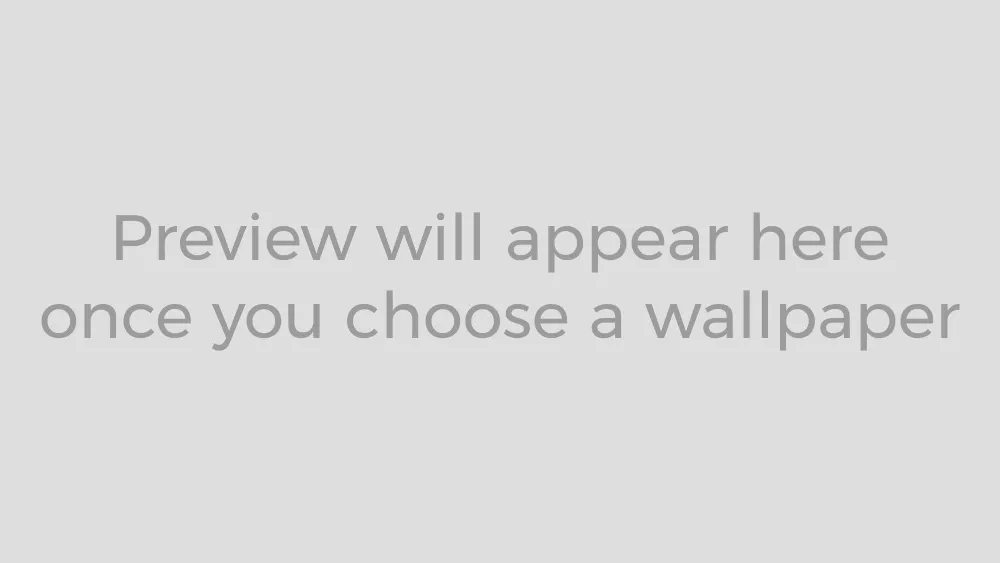
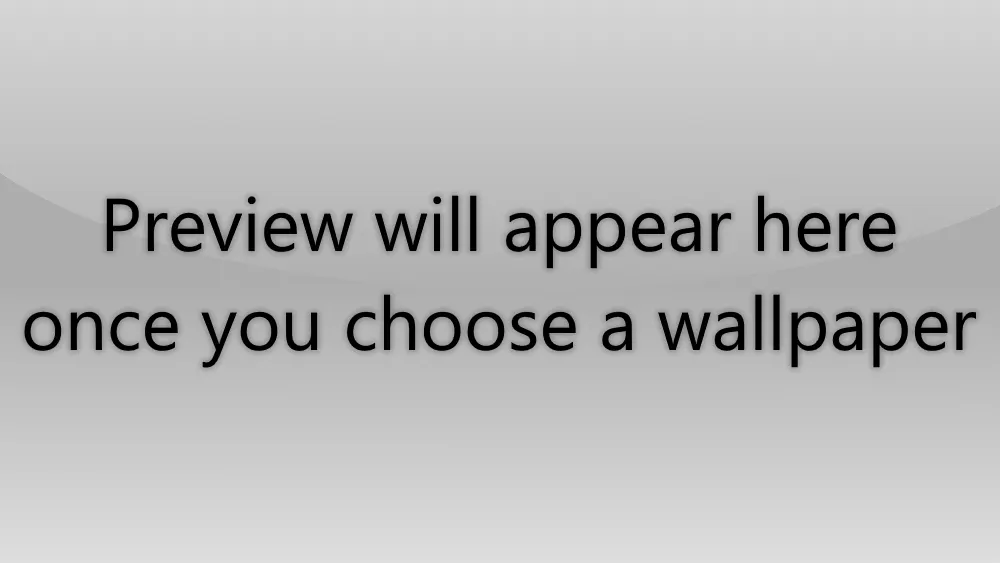
Changed placeholder and background images to aero version

diff --git a/CHANGELOG.md b/CHANGELOG.md
@@ -4,6 +4,11 @@ This project adheres to [Semantic Versioning](https://semver.org/spec/v2.0.0.htm
 
 ---
 
+## 2.0.7 - 2026-10-21
+### Changed
+- Changed the site background to an Aero version
+- Changed the placeholder image to an aero version
+
 ## 2.0.6 - 2026-04-03
 ### Highlights
 This version focuses on updating Download links to avoid tampering risks and on using outdated versions of the canonical apps. Some legacy download files are untouched
